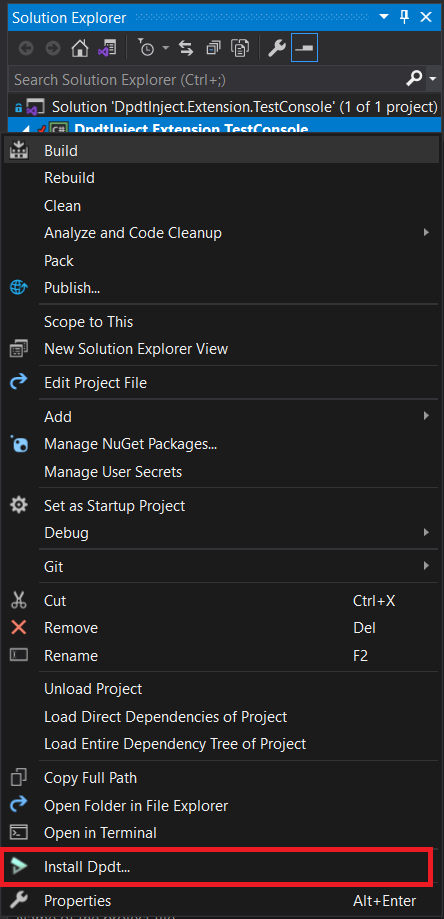
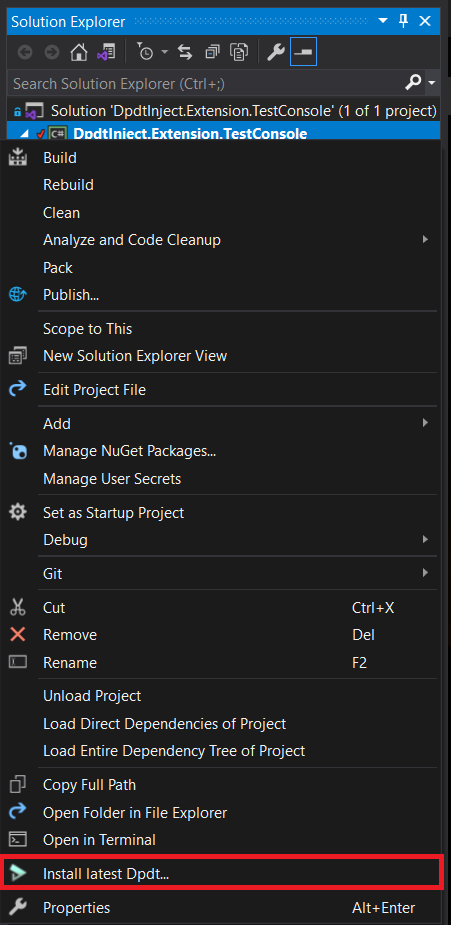
* minor changes

diff --git a/DpdtInject.Extension/DpdtInstallCommand.cs b/DpdtInject.Extension/DpdtInstallCommand.cs
@@ -1,4 +1,5 @@
-using DpdtInject.Extension.Shared;
+using DpdtInject.Extension.Options;
+using DpdtInject.Extension.Shared;
 using EnvDTE;
 using EnvDTE80;
 using Microsoft.CodeAnalysis;
@@ -174,6 +175,12 @@ namespace DpdtInject.Extension
             {
                 if (!(sender is OleMenuCommand omc))
                 {
+                    return;
+                }
+
+                if (!GeneralOptions.Instance.Enabled)
+                {
+                    omc.Visible = false;
                     return;
                 }
 

diff --git a/README.md b/README.md
@@ -454,6 +454,8 @@ But the main function is to generate a binding clauses through the custom codele
 
 ![Dpdt Extension Image 2](extension2.png)
 
+Settings window:
+
 ![Dpdt Extension Image 3](extension3.png)
 
 A lot of thanks to bert2 and his amazing example `https://github.com/bert2/microscope`, without his `microscope` no Dpdt extension will appear because of lack of tutorials in the scope of VS extension development.
